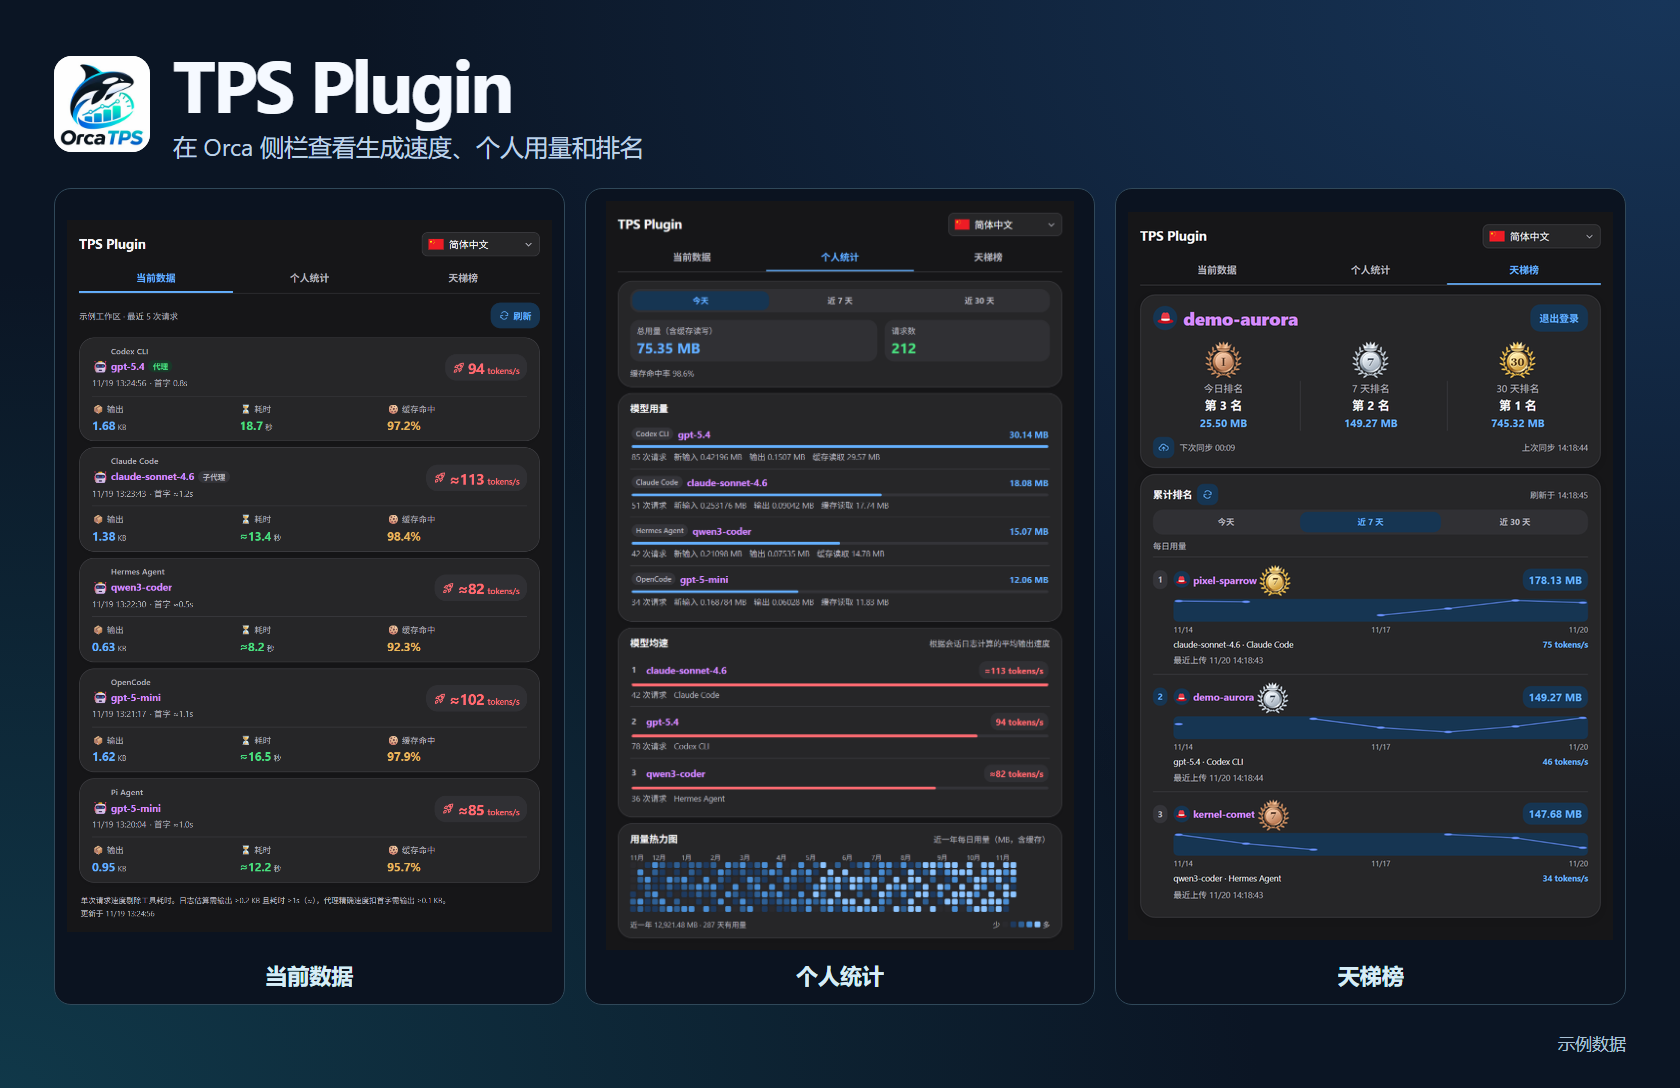
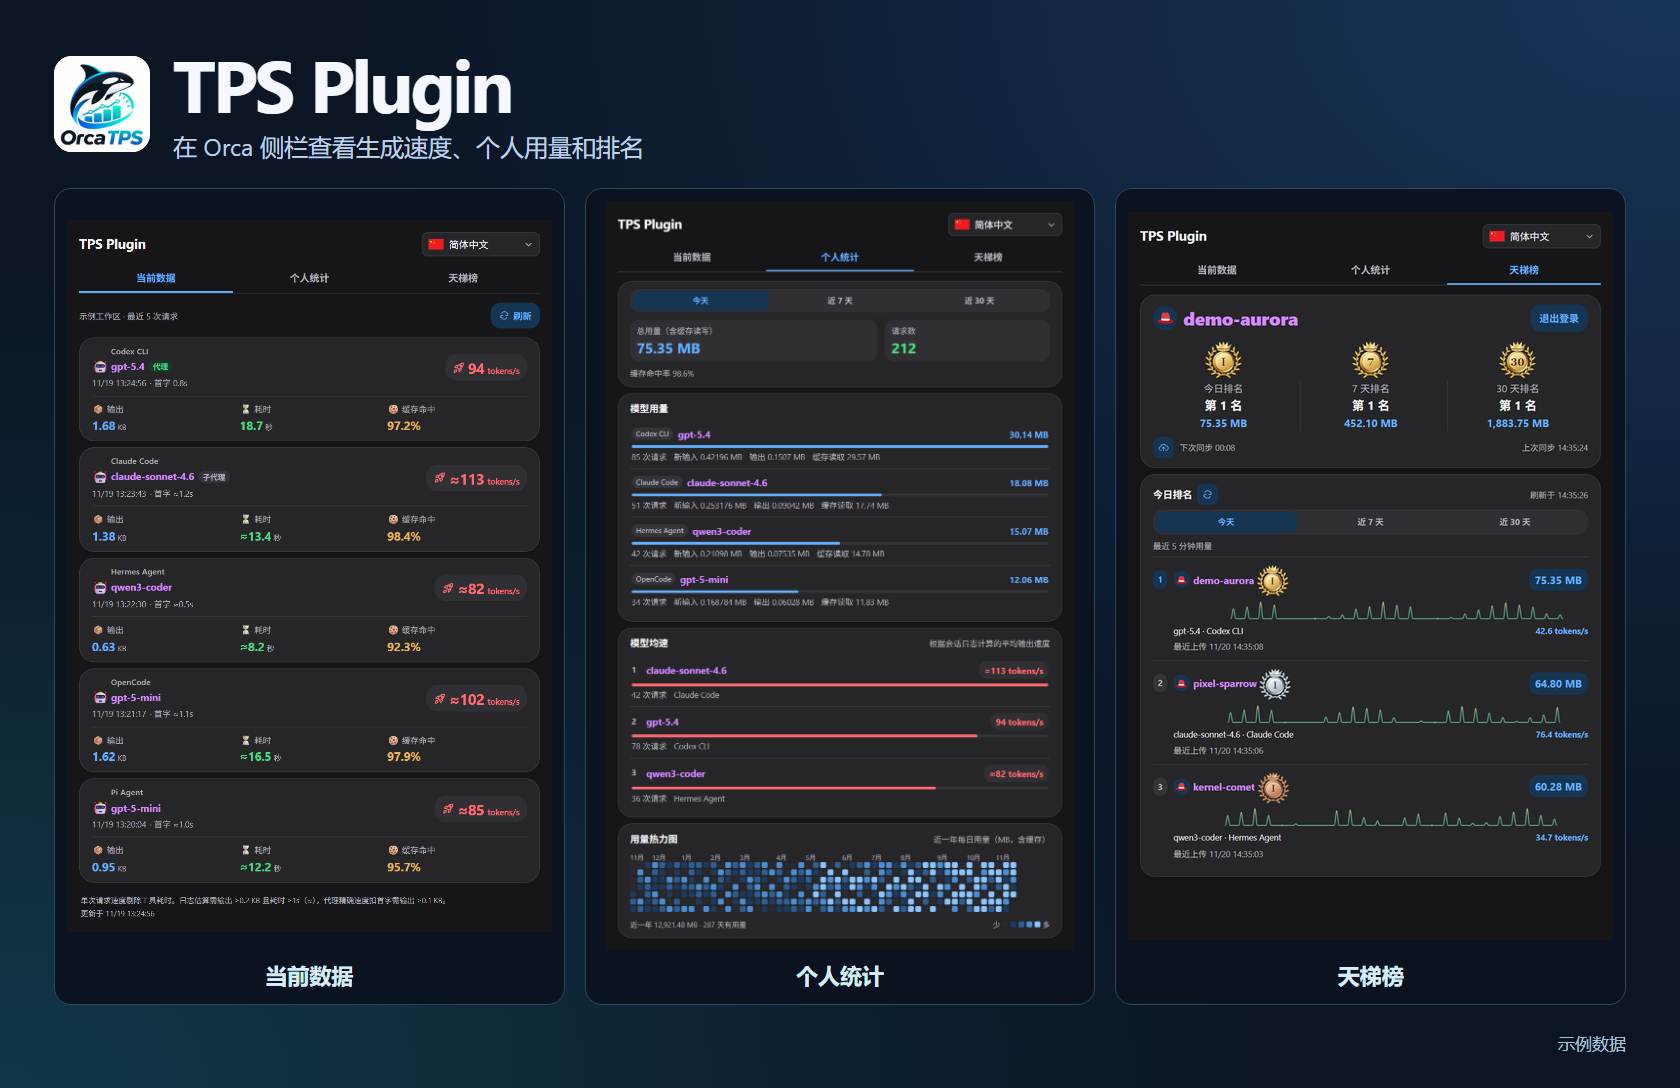
feat: style today leaderboard as a continuous usage waveform

diff --git a/src/panel.html b/src/panel.html
@@ -286,6 +286,8 @@
       display: block; width: 100%; height: 30px; border-radius: 6px;
       background: var(--button-bg); color: var(--blue);
     }
+    .ladder-chart-pulse { background: transparent; --pulse-low: #267456; --pulse-high: #826224; }
+    html.dark .ladder-chart-pulse { --pulse-low: #60a589; --pulse-high: #d2b668; }
     .ladder-chart-axis { display: flex; justify-content: space-between; color: var(--muted); font-size: 10px; margin-top: 3px; }
     .ladder-recent-meta { display: flex; align-items: baseline; justify-content: space-between; gap: 6px; margin-top: 4px; font-size: 11px; }
     .ladder-recent-tools { min-width: 0; overflow: hidden; white-space: nowrap; text-overflow: ellipsis; }
@@ -1371,6 +1373,8 @@
       let revision = 0, drawnRows = '', renderedDay = '', loginProblem = '', messageCode = '';
       let summaryAccount = '', summaryUpload = null;
       let rankingNodes = new Map(), leaderboardFrame, nextRecentExpiry = Infinity;
+      let animateToday = false, pulseDay = '', latestPulses = new Map();
+      const pulsePainters = new WeakMap();
 
       async function request(action, payload = {}) {
         try {
@@ -1515,8 +1519,78 @@
       }
 
       const usageChartLabel = () => t(rankDays === 1 ? 'leaderboard-five-minute-usage' : 'leaderboard-daily-usage');
+      const chartPadding = 4;
 
-      function usageCard({ recent, daily }, now) {
+      function pulseX(point, left, width) {
+        const offset = Math.max(0, Math.min(1, (point.submittedAt - left) / RECENT_STATS_MS));
+        return chartPadding + Math.max(0, width - 2 * chartPadding) * offset;
+      }
+
+      function drawSubmissionPulses(chart, points, left, animateAfter) {
+        const maximum = Math.max(1, ...points.map(point => point.deltaTokens));
+        const animate = points.some(point => point.submittedAt > animateAfter) &&
+          !window.matchMedia('(prefers-reduced-motion: reduce)').matches;
+        let frame, startedAt;
+
+        function schedule() {
+          if (frame === undefined) frame = requestAnimationFrame(draw);
+        }
+
+        function draw(time) {
+          frame = undefined;
+          if (!chart.isConnected || lifetime.signal.aborted) return;
+          const { width, height } = chart.getBoundingClientRect(), density = window.devicePixelRatio || 1;
+          if (width <= 2 * chartPadding || height <= 2 * chartPadding) return;
+          const pixelWidth = Math.round(width * density), pixelHeight = Math.round(height * density);
+          if (chart.width !== pixelWidth) chart.width = pixelWidth;
+          if (chart.height !== pixelHeight) chart.height = pixelHeight;
+          const ctx = chart.getContext('2d');
+          if (!ctx) return;
+          ctx.setTransform(pixelWidth / width, 0, 0, pixelHeight / height, 0, 0);
+          ctx.clearRect(0, 0, width, height);
+          const colors = window.getComputedStyle(chart);
+          const lowColor = colors.getPropertyValue('--pulse-low').trim();
+          const highColor = colors.getPropertyValue('--pulse-high').trim();
+          const baseline = height - chartPadding;
+          const gradient = ctx.createLinearGradient(0, baseline, 0, chartPadding);
+          gradient.addColorStop(0, lowColor);
+          gradient.addColorStop(0.58, lowColor);
+          gradient.addColorStop(1, highColor);
+          ctx.strokeStyle = gradient;
+          ctx.fillStyle = lowColor;
+          ctx.lineWidth = 1.4;
+          ctx.lineCap = ctx.lineJoin = 'round';
+          const halfWidth = Math.min(chartPadding - 0.75, (width - 2 * chartPadding) / 70);
+          startedAt ??= time;
+          const progress = animate ? Math.min(1, (time - startedAt) / 200) : 1;
+          const riseAt = point => point.submittedAt > animateAfter ? 1 - (1 - progress) ** 2 : 1;
+          const [first] = points;
+          ctx.beginPath();
+          ctx.moveTo(pulseX(first, left, width) - (first.deltaTokens > 0 ? halfWidth : 0), baseline);
+          for (const point of points) {
+            const x = pulseX(point, left, width);
+            if (point.deltaTokens > 0) {
+              const peak = baseline - Math.max(1.5, (baseline - chartPadding) * point.deltaTokens / maximum) * riseAt(point);
+              ctx.lineTo(x - halfWidth, baseline);
+              ctx.bezierCurveTo(x - halfWidth * 0.54, baseline, x - halfWidth * 0.38, peak, x, peak);
+              ctx.bezierCurveTo(x + halfWidth * 0.38, peak, x + halfWidth * 0.54, baseline, x + halfWidth, baseline);
+            } else ctx.lineTo(x, baseline);
+          }
+          ctx.stroke();
+          for (const point of points) {
+            if (point.deltaTokens > 0) continue;
+            ctx.beginPath();
+            ctx.arc(pulseX(point, left, width), baseline, 1.4 * riseAt(point), 0, Math.PI * 2);
+            ctx.fill();
+          }
+          if (progress < 1) schedule();
+        }
+
+        pulsePainters.set(chart, schedule);
+        schedule();
+      }
+
+      function usageCard({ recent, daily }, now, animateAfter) {
         const container = document.createElement('div'), chart = document.createElement('canvas');
         const meta = document.createElement('div'), tools = document.createElement('span'), speed = document.createElement('strong');
         container.className = 'ladder-recent';
@@ -1529,6 +1603,7 @@
         tools.className = 'ladder-recent-tools';
         speed.className = 'ladder-recent-speed';
         const byDay = rankDays > 1, latest = recent?.points.at(-1);
+        if (!byDay) chart.classList.add('ladder-chart-pulse');
         const points = byDay ? daily ?? [] : recent?.points ?? [];
         const dayStart = day => Date.parse(day + 'T00:00:00Z');
         const dateLabel = time => locale.date(time, { timeZone: 'UTC', month: 'numeric', day: 'numeric' });
@@ -1561,36 +1636,44 @@
         }
         container.append(meta);
         if (!latestPoint) return container;
-        const size = 4, width = chart.width - size * 2, height = chart.height - size * 2;
-        const maximum = Math.max(1, ...points.map(tokensOf));
-        const x = point => size + width * Math.min(1, (timeOf(point) - left) / span);
-        const y = point => size + height * (1 - tokensOf(point) / maximum);
-        const maxGap = byDay ? DAY_MS : RANK_REFRESH_MS * 1.5;
-        const ctx = chart.getContext('2d');
-        if (ctx) {
-          ctx.strokeStyle = ctx.fillStyle = '#678ef7';
-          ctx.lineWidth = 2;
-          ctx.beginPath();
-          let previous = null;
-          for (const point of points) {
-            if (previous && timeOf(point) - timeOf(previous) <= maxGap) ctx.lineTo(x(point), y(point));
-            else ctx.moveTo(x(point), y(point));
-            previous = point;
-          }
-          ctx.stroke();
-          for (const point of points) {
+        if (byDay) {
+          const width = chart.width - chartPadding * 2, height = chart.height - chartPadding * 2;
+          const maximum = Math.max(1, ...points.map(tokensOf));
+          const x = point => chartPadding + width * Math.min(1, (timeOf(point) - left) / span);
+          const y = point => chartPadding + height * (1 - tokensOf(point) / maximum);
+          const ctx = chart.getContext('2d');
+          if (ctx) {
+            ctx.strokeStyle = ctx.fillStyle = '#678ef7';
+            ctx.lineWidth = 2;
             ctx.beginPath();
-            ctx.arc(x(point), y(point), 3, 0, Math.PI * 2);
-            ctx.fill();
+            let previous = null;
+            for (const point of points) {
+              if (previous && timeOf(point) - timeOf(previous) <= DAY_MS) ctx.lineTo(x(point), y(point));
+              else ctx.moveTo(x(point), y(point));
+              previous = point;
+            }
+            ctx.stroke();
+            for (const point of points) {
+              ctx.beginPath();
+              ctx.arc(x(point), y(point), 3, 0, Math.PI * 2);
+              ctx.fill();
+            }
           }
+          chart.addEventListener('pointermove', event => {
+            const rect = chart.getBoundingClientRect();
+            const position = (event.clientX - rect.left) * chart.width / rect.width;
+            const nearest = points.reduce((a, b) => Math.abs(x(a) - position) <= Math.abs(x(b) - position) ? a : b);
+            chart.title = Math.abs(x(nearest) - position) > width * DAY_MS / span / 2 ? usageChartLabel() : pointTitle(nearest);
+          });
+        } else {
+          drawSubmissionPulses(chart, points, left, animateAfter);
+          chart.addEventListener('pointermove', event => {
+            const { left: edge, width } = chart.getBoundingClientRect();
+            const distance = point => Math.abs(pulseX(point, left, width) - (event.clientX - edge));
+            const nearest = points.reduce((a, b) => distance(a) <= distance(b) ? a : b);
+            chart.title = distance(nearest) <= 6 ? pointTitle(nearest) : usageChartLabel();
+          });
         }
-        chart.addEventListener('pointermove', event => {
-          const rect = chart.getBoundingClientRect();
-          const position = (event.clientX - rect.left) * chart.width / rect.width;
-          const nearest = points.reduce((a, b) => Math.abs(x(a) - position) <= Math.abs(x(b) - position) ? a : b);
-          chart.title = byDay && Math.abs(x(nearest) - position) > width * DAY_MS / span / 2
-            ? usageChartLabel() : pointTitle(nearest);
-        });
         return container;
       }
 
@@ -1603,6 +1686,9 @@
           if (points.length) nextRecentExpiry = Math.min(nextRecentExpiry, points[0].submittedAt + RECENT_STATS_MS);
           return { ...row, recent: { ...row.recent, points } };
         });
+        const previousPulses = animateToday && pulseDay === renderedDay ? latestPulses : null;
+        pulseDay = rankDays === 1 ? renderedDay : '';
+        latestPulses = new Map(rankDays === 1 ? rows.map(row => [row.username, row.recent?.points.at(-1)?.submittedAt ?? -Infinity]) : []);
         const signature = JSON.stringify([rankDays, renderedDay, username, rows]);
         if (signature === drawnRows) return;
         const period = periods.find(entry => entry.days === rankDays);
@@ -1634,7 +1720,7 @@
           time.setAttribute('data-localized-text', '');
           time.textContent = t('last-upload-at', uploaded);
           time.dateTime = new Date(row.submittedAt).toISOString();
-          item.append(rank, user, total, usageCard(row, now), time);
+          item.append(rank, user, total, usageCard(row, now, previousPulses?.get(row.username) ?? Infinity), time);
           return item;
         });
         // Rows changed after a sync: give a still-default account avatar another chance too.
@@ -1809,6 +1895,7 @@
         if (typeof result.signedIn === 'boolean' && (updateSession || !session)) session = result;
         cacheRanking(result, days);
         render(result.code ?? '');
+        if (days === 1 && Array.isArray(result.board?.rows)) animateToday = true;
         showSummaries();
       }
 
@@ -1863,6 +1950,7 @@
       }
 
       function showCachedRanking() {
+        animateToday = false;
         render('');
         void showCache().then(() => refresh(rankDays, true));
         if (!session) void refreshSession();
@@ -1918,7 +2006,17 @@
         showCachedRanking();
       });
       group.addEventListener('tps-view-opened', showCachedRanking);
-      window.addEventListener('online', () => void refresh(rankDays, true), { signal: lifetime.signal });
+      window.addEventListener('online', () => {
+        animateToday = false;
+        void refresh(rankDays, true);
+      }, { signal: lifetime.signal });
+      function redrawPulses() {
+        for (const chart of element('rows').querySelectorAll('.ladder-chart')) pulsePainters.get(chart)?.();
+      }
+      const pulseResize = new ResizeObserver(redrawPulses);
+      const pulseTheme = new MutationObserver(redrawPulses);
+      pulseResize.observe(element('rows'));
+      pulseTheme.observe(document.documentElement, { attributes: true, attributeFilter: ['class'] });
       document.addEventListener('tps-language-changed', () => {
         drawnRows = '';
         rankingNodes.clear();
@@ -2015,6 +2113,8 @@
       window.addEventListener('pagehide', () => {
         lifetime.abort();
         avatarView.dispose();
+        pulseResize.disconnect();
+        pulseTheme.disconnect();
         rankingSubscription?.dispose();
         cancelAnimationFrame(leaderboardFrame);
         clearTimeout(retryLogin);

diff --git a/docs/superpowers/specs/2026-11-20-leaderboard-five-minute-stats-design.md b/docs/superpowers/specs/2026-11-20-leaderboard-five-minute-stats-design.md
@@ -55,7 +55,7 @@
 | 断线恢复 | 读取服务器此刻的快照，替换本地数据。 |
 | 离开榜单 | 暂停看榜的自动拉取。 |
 
-今日榜用提交时间画最近 5 分钟的点。近 7 天和近 30 天榜使用 `daily=1`，每行额外返回 `daily`，由已有的每日榜单成绩组成，格式为 `{ day, tokens }`。日期按北京时间划分，窗口包含今天，缺记录的日期留空。每天的点显示该账号在当天的累计用量。日曲线响应只带最近一笔提交的短期数据，供卡片显示速度、模型和 CLI。
+今日榜用一条心电图式的细线连接最近 5 分钟的提交记录。每笔记录在实际提交时间画一个平滑的波峰，峰高表示这笔的新增 Token。零值画成基线上的小点，两笔提交之间由平线连接。持续查看时，新峰出现时跳一次，首次打开或重连时直接绘出当前记录。近 7 天和近 30 天榜使用 `daily=1`，每行额外返回 `daily`，由已有的每日榜单成绩组成，格式为 `{ day, tokens }`。日期按北京时间划分，窗口包含今天，缺记录的日期留空。每天的点显示该账号在当天的累计用量。日曲线响应只带最近一笔提交的短期数据，供卡片显示速度、模型和 CLI。
 
 新版使用 `GET /api/today?days=1&stats=1` 请求完整榜单，`days` 可为 `1`、`7` 或 `30`。公开快照按周期共用。正常自动拉取使用 `If-None-Match` 带上上一份快照的 `ETag`，服务端在快照内容一致时返回 `304`。打开、切换周期、手动刷新和断线恢复时取完整快照。缓存到下一条记录过期时也要更新。新增统计沿用同一次榜单请求，进出前 100 名以该次返回的名单为准。
 
@@ -78,7 +78,7 @@
 }
 ```
 
-看榜端用名单渲染卡片，有变化的行才更新显示。顶部用量对应所选榜单周期，底部时间取榜单成绩的最后成功提交时间。今日榜曲线合并同账号所有设备的提交点。速度、模型和 CLI 显示最近一笔统计所在设备给出的值，最近 5 分钟没有记录时显示 `—`。各周期的曲线按实际记录绘制，空档留白。
+看榜端用名单渲染卡片，有变化的行才更新显示。顶部用量对应所选榜单周期，底部时间取榜单成绩的最后成功提交时间。今日榜曲线合并同账号所有设备的提交点，悬停只显示实际记录。速度、模型和 CLI 显示最近一笔统计所在设备给出的值，最近 5 分钟没有记录时显示 `—`。
 
 ## 修改范围与验收
 

diff --git a/README.md b/README.md
@@ -54,13 +54,13 @@ Open **TPS Plugin** in Orca’s right sidebar to switch between **Current Data**
 ### 3.3 Leaderboard
 
 - Browse today’s, 7-day, and 30-day rankings. Entries show GitHub avatars, and the top three get gold, silver, and bronze medals.
-- The top 100 entries show submitted usage points for the last five minutes on Today and one point per Beijing calendar day on the 7-day and 30-day tabs. Entries also show the latest average generation speed, most-used model and CLI, and last upload time. The leaderboard refreshes every 10 seconds while open.
+- The top 100 entries show a five-minute waveform with one peak per upload on Today and one point per Beijing calendar day on the 7-day and 30-day tabs. Entries also show the latest average generation speed, most-used model and CLI, and last upload time. The leaderboard refreshes every 10 seconds while open.
 - Sign in with GitHub to participate. The leaderboard combines usage across installations linked to the same account. The plugin fetches avatars directly from GitHub and shows a built-in red hat avatar until one loads. Missing avatars are retried after the next sync, and a loaded avatar is reused everywhere it appears.
 - While signed in, the plugin attempts to sync every 10 seconds. Manual sync shares the same interval. The account card shows the countdown, the last successful sync, and any recent error.
 
 <p align="center">
   <a href="./assets/readme/en/leaderboard.png" title="View full-size screenshot">
-    <img src="./assets/readme/en/leaderboard.webp" width="266" alt="English 7-day leaderboard showing ranks, daily usage curves, models, CLIs, and average speeds">
+    <img src="./assets/readme/en/leaderboard.webp" width="266" alt="English leaderboard showing today's ranks, five-minute usage waveforms, models, CLIs, and average speeds">
   </a>
 </p>
 
